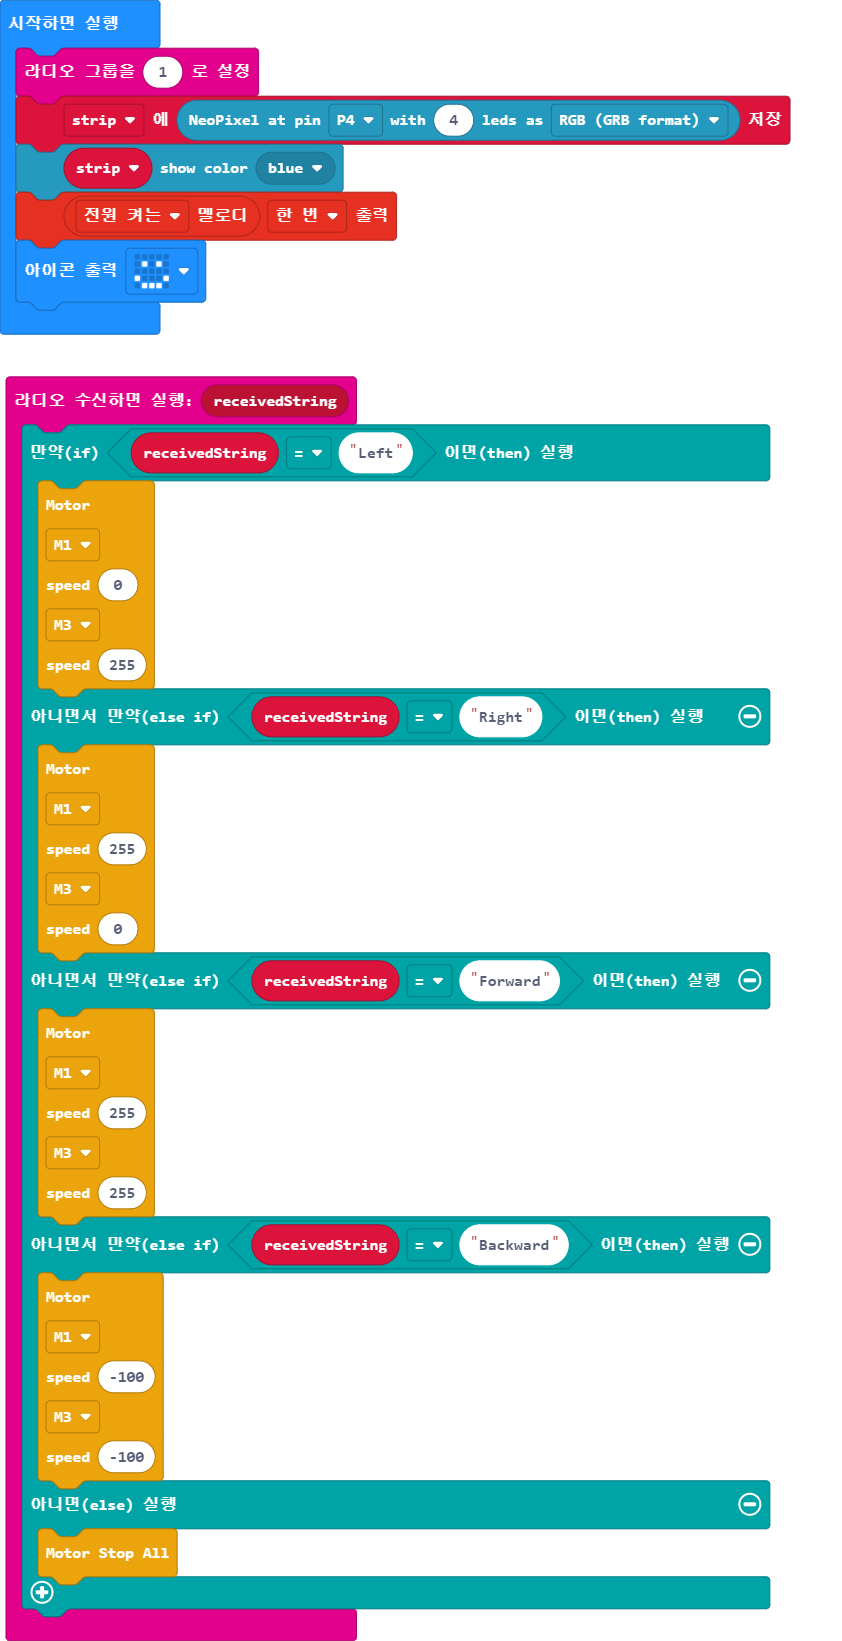
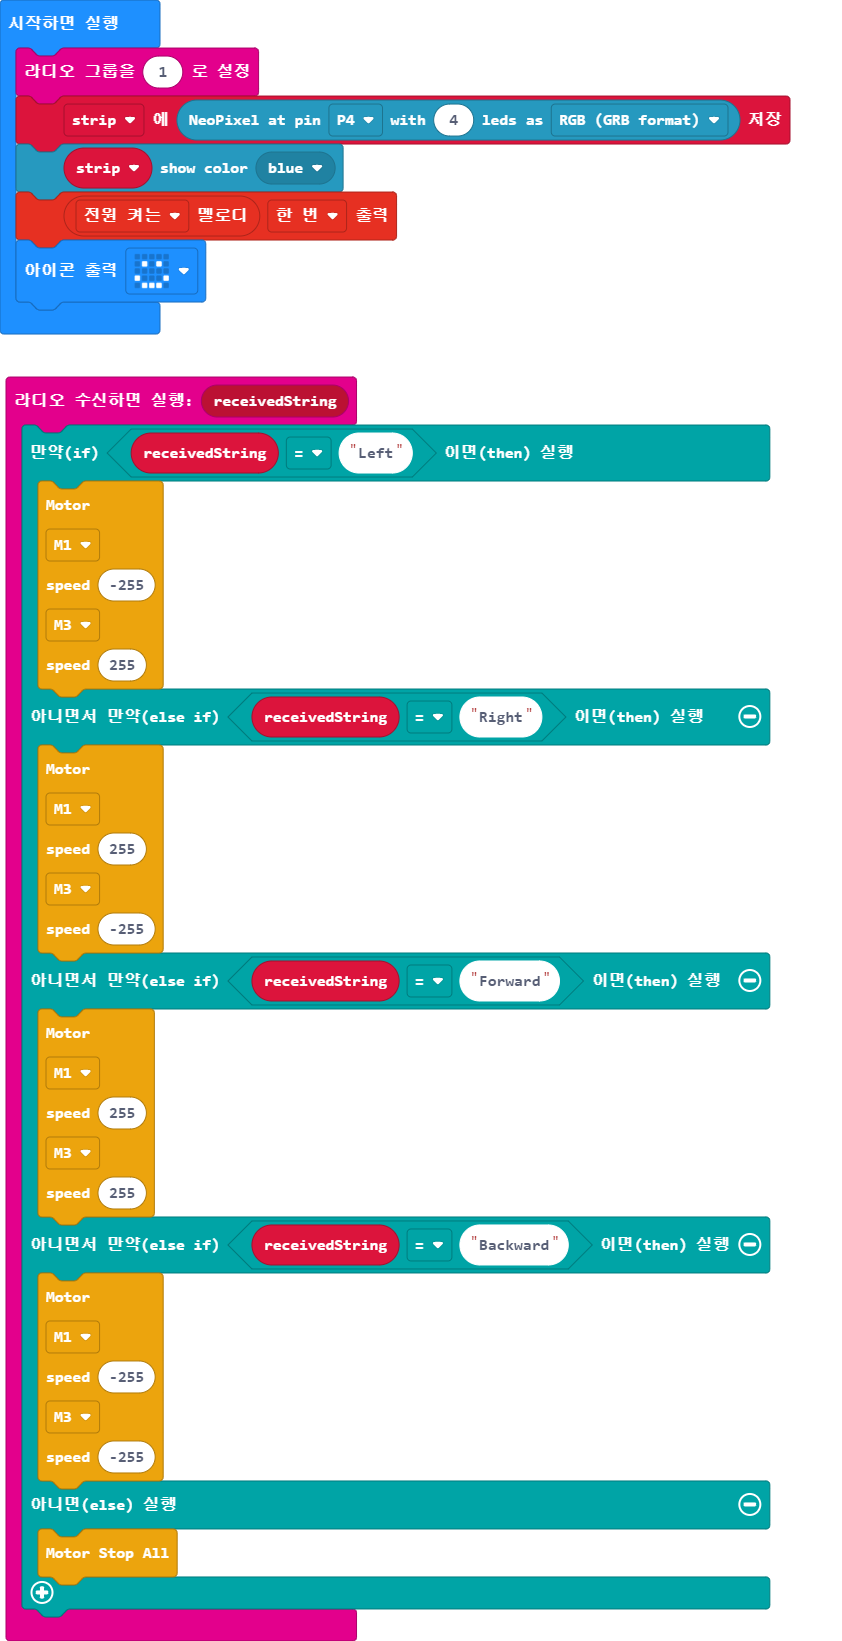
main.blocks, main.ts 업데이트하기

Changed region(s): [[0.1235, 0.2797, 0.2162, 0.5905]]

diff --git a/main.ts b/main.ts
@@ -2,7 +2,7 @@ radio.onReceivedString(function (receivedString) {
     if (receivedString == "Left") {
         SuperBit.MotorRunDual(
         SuperBit.enMotors.M1,
-        0,
+        -255,
         SuperBit.enMotors.M3,
         255
         )
@@ -11,7 +11,7 @@ radio.onReceivedString(function (receivedString) {
         SuperBit.enMotors.M1,
         255,
         SuperBit.enMotors.M3,
-        0
+        -255
         )
     } else if (receivedString == "Forward") {
         SuperBit.MotorRunDual(
@@ -23,9 +23,9 @@ radio.onReceivedString(function (receivedString) {
     } else if (receivedString == "Backward") {
         SuperBit.MotorRunDual(
         SuperBit.enMotors.M1,
-        -100,
+        -255,
         SuperBit.enMotors.M3,
-        -100
+        -255
         )
     } else {
         SuperBit.MotorStopAll()
